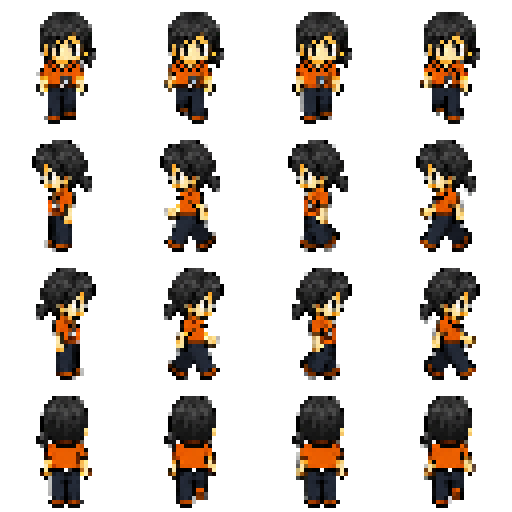
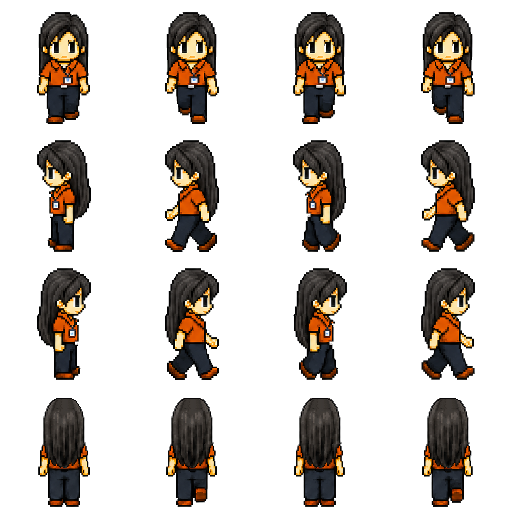
fix: change character asset

diff --git a/scripts/normalize-character-v3.js b/scripts/normalize-character-v3.js
@@ -17,6 +17,9 @@ const stabilize = flags.includes('--stabilize');
 const runtimeGrid = flags.includes('--runtime-grid');
 const lockHeads = flags.includes('--lock-heads');
 const femaleFrontAlign = flags.includes('--female-front-align');
+const preserveAllComponents = flags.includes('--preserve-all-components');
+const longHairSafePadding = flags.includes('--long-hair-safe-padding');
+const roundRearCrown = flags.includes('--round-rear-crown');
 const frameSizeFlag = flags.indexOf('--frame-size');
 const frameSize = frameSizeFlag >= 0 ? Number(flags[frameSizeFlag + 1]) : 64;
 const runtimeSizeFlag = flags.indexOf('--runtime-size');
@@ -33,7 +36,7 @@ if (!Number.isInteger(targetHeight) || targetHeight < Math.round(frameSize * 0.6
   throw new Error(`--target-height must be an integer from ${Math.round(frameSize * 0.625)} to ${frameSize - 4}.`);
 }
 if (!inputPath || !outputPath) {
-  console.error('Usage: node scripts/normalize-character-v3.js GENERATED.png OUTPUT.png [--frame-size 64|96|128] [--runtime-size 32|48] [--uniform-height] [--target-height 56|84|112] [--stabilize] [--runtime-grid] [--lock-heads] [--female-front-align]');
+  console.error('Usage: node scripts/normalize-character-v3.js GENERATED.png OUTPUT.png [--frame-size 64|96|128] [--runtime-size 32|48] [--uniform-height] [--target-height 56|84|112] [--stabilize] [--runtime-grid] [--lock-heads] [--female-front-align] [--preserve-all-components] [--long-hair-safe-padding] [--round-rear-crown]');
   process.exit(2);
 }
 
@@ -104,6 +107,9 @@ const runtimeFrame = requestedRuntimeSize;
 const output = Buffer.alloc(FRAME * 4 * FRAME * 4 * 4);
 const geometryScale = FRAME / 64;
 const baseline = FRAME - Math.round(2 * geometryScale);
+const baselineForRow = (row) => longHairSafePadding && row === 3
+  ? FRAME - Math.round(2.5 * geometryScale)
+  : baseline;
 
 function cellBounds(column, row) {
   return {
@@ -148,19 +154,23 @@ function analyzeCell(column, row) {
 
   // Generated sheets occasionally let a few pixels from the neighbouring
   // frame cross an imprecise quarter boundary. Retain the largest connected
-  // foreground component only; the character itself is one outlined shape,
-  // while those edge fragments are small detached components.
+  // foreground component by default. The opt-in mode also retains substantial
+  // nearby pieces (for example separated hair tips or a lifted shoe), while
+  // still rejecting checkerboard seams and distant frame fragments.
   const visited = new Uint8Array(cellWidth * cellHeight);
-  let largestComponent = [];
+  const components = [];
   for (let seedY = 0; seedY < cellHeight; seedY += 1) for (let seedX = 0; seedX < cellWidth; seedX += 1) {
     const seedIndex = seedY * cellWidth + seedX;
     if (background[seedIndex] || visited[seedIndex]) continue;
-    const component = [], componentQueue = [seedIndex];
+    const pixels = [], componentQueue = [seedIndex];
+    let left = seedX, right = seedX, top = seedY, bottom = seedY;
     visited[seedIndex] = 1;
     while (componentQueue.length) {
       const cellIndex = componentQueue.pop();
-      component.push(cellIndex);
+      pixels.push(cellIndex);
       const x = cellIndex % cellWidth, y = Math.floor(cellIndex / cellWidth);
+      left = Math.min(left, x); right = Math.max(right, x);
+      top = Math.min(top, y); bottom = Math.max(bottom, y);
       for (let dy = -1; dy <= 1; dy += 1) for (let dx = -1; dx <= 1; dx += 1) {
         if (!dx && !dy) continue;
         const nextX = x + dx, nextY = y + dy;
@@ -170,10 +180,23 @@ function analyzeCell(column, row) {
         visited[nextIndex] = 1; componentQueue.push(nextIndex);
       }
     }
-    if (component.length > largestComponent.length) largestComponent = component;
+    components.push({ pixels, left, right, top, bottom });
   }
+  components.sort((a, b) => b.pixels.length - a.pixels.length);
+  const largest = components[0];
   const retained = new Uint8Array(cellWidth * cellHeight);
-  for (const cellIndex of largestComponent) retained[cellIndex] = 1;
+  if (largest) {
+    const proximity = Math.max(4, Math.round(Math.min(cellWidth, cellHeight) * 0.08));
+    const minimumArea = Math.max(12, Math.round(largest.pixels.length * 0.02));
+    for (const component of components) {
+      const horizontalGap = Math.max(0, largest.left - component.right, component.left - largest.right);
+      const verticalGap = Math.max(0, largest.top - component.bottom, component.top - largest.bottom);
+      const keep = component === largest || (preserveAllComponents
+        && component.pixels.length >= minimumArea
+        && horizontalGap <= proximity && verticalGap <= proximity);
+      if (keep) for (const cellIndex of component.pixels) retained[cellIndex] = 1;
+    }
+  }
   for (let cellIndex = 0; cellIndex < background.length; cellIndex += 1) {
     if (!retained[cellIndex]) background[cellIndex] = 1;
   }
@@ -204,11 +227,19 @@ function renderCell(cell, column, row) {
   // Some generators change camera distance slightly between directions. This
   // optional whole-frame scale keeps a fixed character height without
   // changing anatomy or splicing body regions.
-  const frameScale = uniformHeight ? Math.min(targetWidth / cell.spriteWidth, targetHeight / cell.spriteHeight) : scale;
+  // Long rear hair needs extra room for a crown curve that survives 128→32
+  // sampling. Reduce only the up-facing row by three source pixels at V4.
+  const rowTargetHeight = longHairSafePadding && row === 3
+    ? targetHeight - Math.round(1.5 * geometryScale)
+    : targetHeight;
+  const rowTargetWidth = Math.min(targetWidth, Math.round(rowTargetHeight * 0.97));
+  const frameScale = uniformHeight
+    ? Math.min(rowTargetWidth / cell.spriteWidth, rowTargetHeight / cell.spriteHeight)
+    : scale;
   const destinationWidth = Math.max(1, Math.round(cell.spriteWidth * frameScale));
   const destinationHeight = Math.max(1, Math.round(cell.spriteHeight * frameScale));
   const destinationX = column * FRAME + Math.floor((FRAME - destinationWidth) / 2);
-  const destinationY = row * FRAME + baseline - destinationHeight;
+  const destinationY = row * FRAME + baselineForRow(row) - destinationHeight;
   for (let y = 0; y < destinationHeight; y += 1) for (let x = 0; x < destinationWidth; x += 1) {
     const localX = cell.minX + Math.min(cell.spriteWidth - 1, Math.floor((x + 0.5) * cell.spriteWidth / destinationWidth));
     const localY = cell.minY + Math.min(cell.spriteHeight - 1, Math.floor((y + 0.5) * cell.spriteHeight / destinationHeight));
@@ -260,7 +291,7 @@ if (stabilize) {
     for (let frame = 0; frame < 4; frame += 1) {
       shifts.push({ row, frame,
         dx: Math.max(-3, Math.min(3, Math.round(targetTorsoX - metrics[frame].torsoX))),
-      dy: Math.max(0, baseline - 1 - metrics[frame].maxY) });
+      dy: Math.max(0, baselineForRow(row) - 1 - metrics[frame].maxY) });
     }
   }
   const snapshot = Buffer.from(output);
@@ -398,6 +429,56 @@ if (runtimeGrid || femaleFrontAlign) {
   }
 }
 
+// Long straight hair can arrive with a wide, perfectly horizontal first row,
+// which reads as a crown clipped by the cell boundary after 128→32 sampling.
+// Rebuild twelve rear-hair rows as a narrow-to-wide arc so the curve remains
+// visible across three complete four-source-pixel runtime sampling bands.
+if (roundRearCrown) {
+  const outputWidth = FRAME * 4;
+  const snapshot = Buffer.from(output);
+  const crownScales = [
+    0.55, 0.68, 0.75, 0.80,
+    0.84, 0.88, 0.91, 0.94,
+    0.96, 0.98, 0.99, 1.00,
+  ];
+  for (let frame = 0; frame < 4; frame += 1) {
+    const frameX = frame * FRAME, rowY = 3 * FRAME;
+    let minY = FRAME, minX = FRAME, maxX = -1;
+    for (let localY = 0; localY < FRAME; localY += 1) for (let localX = 0; localX < FRAME; localX += 1) {
+      const offset = (((rowY + localY) * outputWidth) + frameX + localX) * 4;
+      if (snapshot[offset + 3] <= 20) continue;
+      if (localY < minY) { minY = localY; minX = localX; maxX = localX; }
+      else if (localY === minY) { minX = Math.min(minX, localX); maxX = Math.max(maxX, localX); }
+    }
+    if (maxX < minX || minY < 2) continue;
+    const sourceY = Math.min(FRAME - 1, minY + crownScales.length - 1);
+    let sourceMinX = FRAME, sourceMaxX = -1;
+    for (let localX = 0; localX < FRAME; localX += 1) {
+      const offset = (((rowY + sourceY) * outputWidth) + frameX + localX) * 4;
+      if (snapshot[offset + 3] > 20) { sourceMinX = Math.min(sourceMinX, localX); sourceMaxX = Math.max(sourceMaxX, localX); }
+    }
+    if (sourceMaxX < sourceMinX) continue;
+    const sourceWidth = sourceMaxX - sourceMinX + 1;
+    const center = (sourceMinX + sourceMaxX) / 2;
+    for (let crownRow = 0; crownRow < crownScales.length; crownRow += 1) {
+      const crownLift = longHairSafePadding ? 2 : 0;
+      const destinationY = minY - crownLift + crownRow;
+      for (let localX = 0; localX < FRAME; localX += 1) {
+        const destinationOffset = (((rowY + destinationY) * outputWidth) + frameX + localX) * 4;
+        output.fill(0, destinationOffset, destinationOffset + 4);
+      }
+      const destinationWidth = Math.max(2, Math.round(sourceWidth * crownScales[crownRow]));
+      const destinationMinX = Math.round(center - (destinationWidth - 1) / 2);
+      for (let x = 0; x < destinationWidth; x += 1) {
+        const sourceX = sourceMinX + Math.min(sourceWidth - 1, Math.floor((x + 0.5) * sourceWidth / destinationWidth));
+        const sourceOffset = (((rowY + sourceY) * outputWidth) + frameX + sourceX) * 4;
+        const destinationOffset = (((rowY + destinationY) * outputWidth) + frameX + destinationMinX + x) * 4;
+        snapshot.copy(output, destinationOffset, sourceOffset, sourceOffset + 4);
+      }
+    }
+  }
+}
+
 const crcTable = Array.from({ length: 256 }, (_, value) => {
   let crc = value;
   for (let bit = 0; bit < 8; bit += 1) crc = (crc & 1) ? (0xedb88320 ^ (crc >>> 1)) : (crc >>> 1);
@@ -434,4 +515,4 @@ fs.writeFileSync(outputPath, Buffer.concat([
   pngChunk('IEND', Buffer.alloc(0)),
 ]));
 
-console.log(`${outputPath}: ${outputSize}x${outputSize} RGBA, ${FRAME}px frames → ${runtimeFrame}px runtime, ${uniformHeight ? `uniform ${targetHeight}px frame height` : `scale ${scale.toFixed(4)}`}, shared baseline ${baseline}px${stabilize ? ', stabilized torso axis' : ''}${runtimeGrid ? ', runtime-grid aligned' : ''}${lockHeads ? ', direction heads locked' : ''}${femaleFrontAlign ? ', female front aligned' : ''}`);
+console.log(`${outputPath}: ${outputSize}x${outputSize} RGBA, ${FRAME}px frames → ${runtimeFrame}px runtime, ${uniformHeight ? `uniform ${targetHeight}px frame height` : `scale ${scale.toFixed(4)}`}, shared baseline ${baseline}px${longHairSafePadding ? `, up-row baseline ${baselineForRow(3)}px` : ''}${roundRearCrown ? ', rounded rear crown' : ''}${stabilize ? ', stabilized torso axis' : ''}${runtimeGrid ? ', runtime-grid aligned' : ''}${lockHeads ? ', direction heads locked' : ''}${femaleFrontAlign ? ', female front aligned' : ''}`);

diff --git a/tests/character-animation.test.js b/tests/character-animation.test.js
@@ -112,10 +112,26 @@ for (const definition of SHEETS) {
     // difference therefore becomes a visible one-pixel pop whenever the
     // player turns from front to back, even though each row is stable alone.
     if (cell === 128) {
-      assert.equal(new Set(directionBaselines).size, 1,
-        `direction baseline mismatch: ${directionBaselines.join(',')}`);
-      assert.equal(new Set(directionHeights).size, 1,
-        `direction height mismatch: ${directionHeights.join(',')}`);
+      const longHairedFemale = relativePath.includes('player-female-');
+      if (longHairedFemale) {
+        // The complete rounded rear crown and long hair need a slightly taller
+        // silhouette than the face/side views. One source-pixel of baseline
+        // lift is sub-runtime-pixel at 128→32 and preserves safe padding.
+        assert.equal(new Set(directionBaselines.slice(0, 3)).size, 1,
+          `front/side baseline mismatch: ${directionBaselines.join(',')}`);
+        assert.ok(Math.max(...directionBaselines) - Math.min(...directionBaselines) <= 1,
+          `female rear baseline exceeds long-hair allowance: ${directionBaselines.join(',')}`);
+        assert.equal(new Set(directionHeights.slice(0, 3)).size, 1,
+          `front/side height mismatch: ${directionHeights.join(',')}`);
+        assert.ok(directionHeights[3] >= directionHeights[0] - 2
+          && directionHeights[3] <= directionHeights[0] + 4,
+        `female rear height exceeds long-hair allowance: ${directionHeights.join(',')}`);
+      } else {
+        assert.equal(new Set(directionBaselines).size, 1,
+          `direction baseline mismatch: ${directionBaselines.join(',')}`);
+        assert.equal(new Set(directionHeights).size, 1,
+          `direction height mismatch: ${directionHeights.join(',')}`);
+      }
     }
 
     // Right-facing animation is produced from the completed left-facing row,
